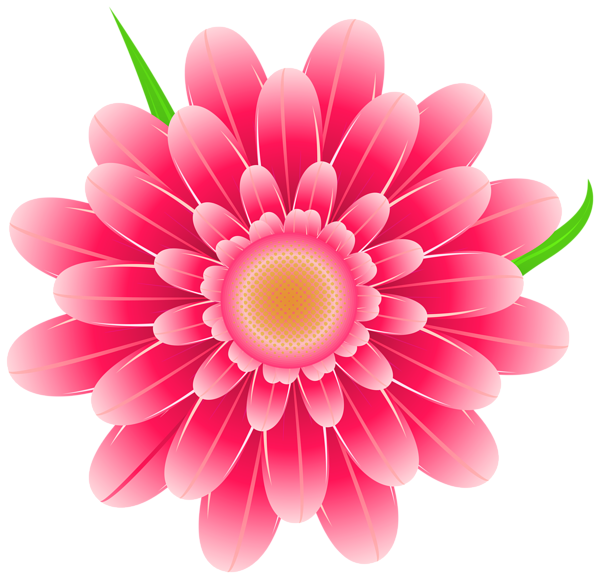
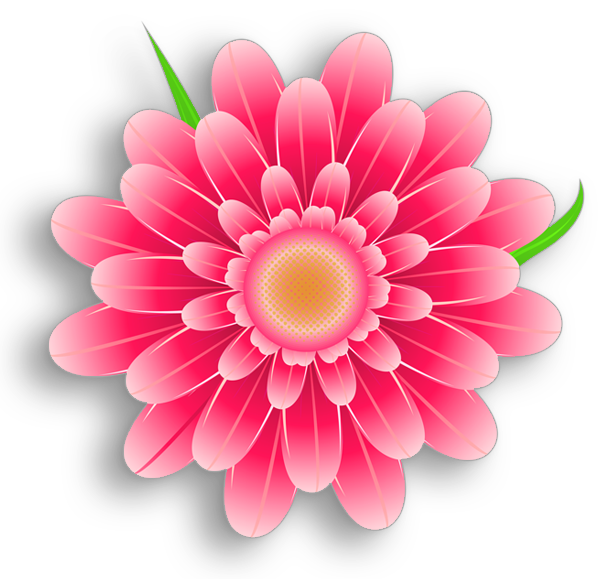
Add drop shadows

diff --git a/css/main.css b/css/main.css
@@ -192,7 +192,9 @@ button:hover {
     max-width: 400px;
     height: auto;
     margin: 20px auto;
-    box-shadow: 3px 3px 3px #8c8c8c;
+    border-style: solid;
+    border-color: #ffffff;
+    box-shadow: 2px 2px 2px #8c8c8c;
 }
 
 /* footer */
@@ -250,7 +252,8 @@ button:hover {
         background-color: #ffffff;
         padding: 15px;
         border-style: solid;
-        border-collapse: black;
+        border-width: .5px;
+        box-shadow: 3px 3px 3px #8c8c8c;
         float: left;
     }
     #imagery {
